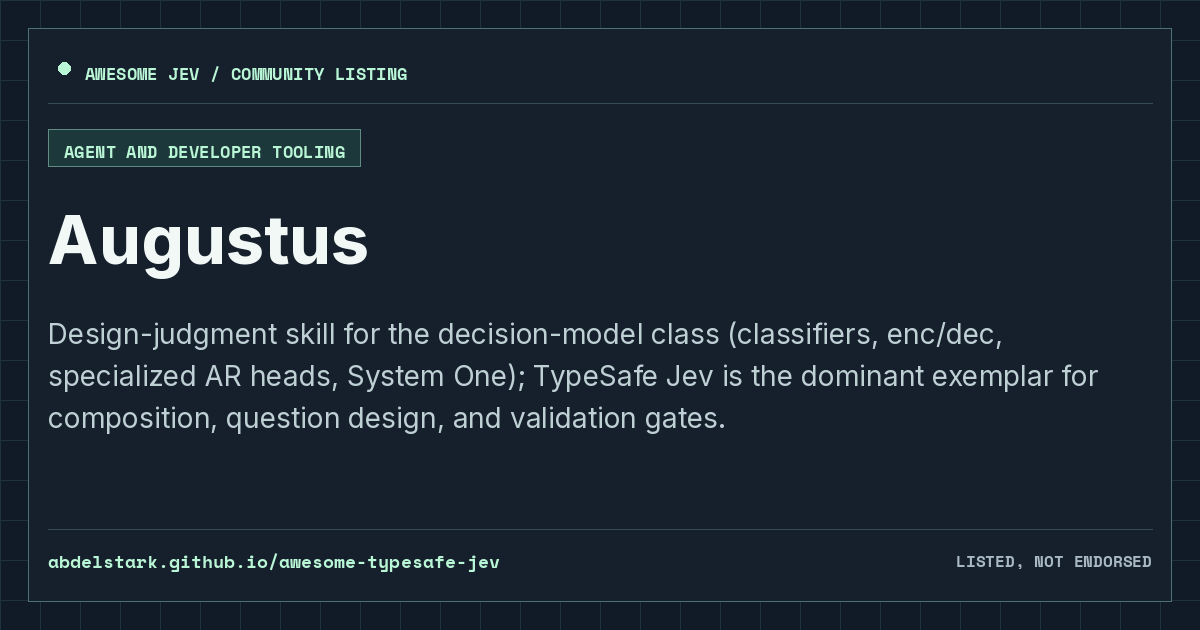
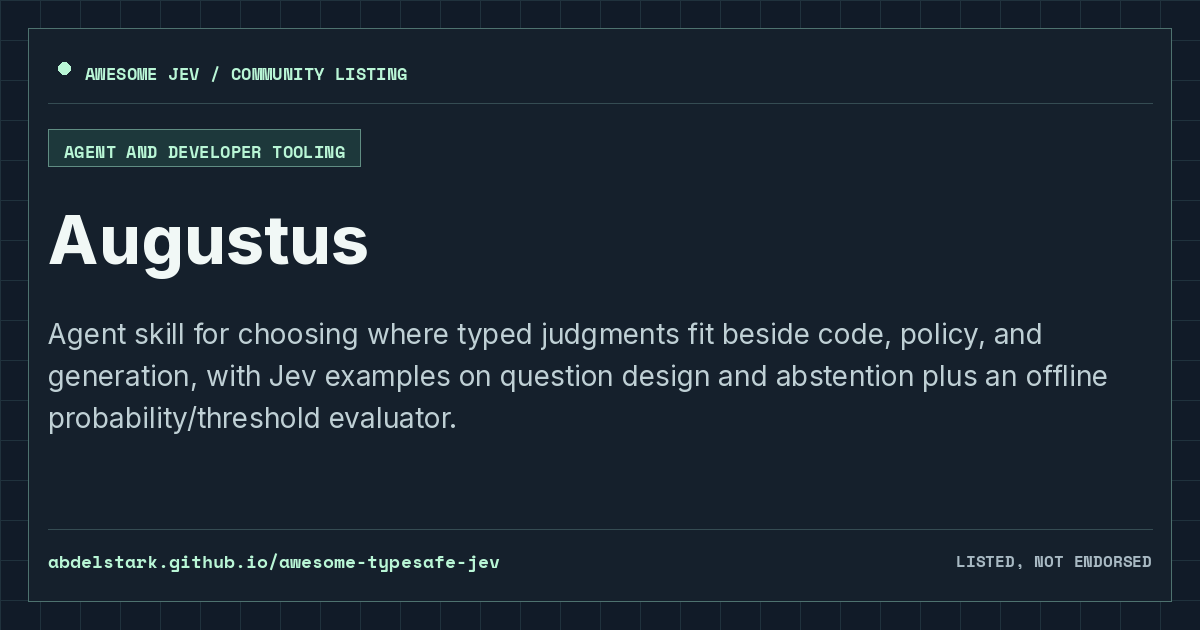
Credit Augustus contributor and clarify listing

Changed region(s): [[0.0308, 0.5127, 0.925, 0.6937]]

diff --git a/projects/gh-24601-augustus.html b/projects/gh-24601-augustus.html
@@ -1,12 +1,12 @@
 ---
 layout: "resource"
 title: "Augustus | Awesome Jev"
-description: "Design-judgment skill for the decision-model class (classifiers, enc/dec, specialized AR heads, System One); TypeSafe Jev is the dominant exemplar for composition, question design, and validation gates."
+description: "Agent skill for choosing where typed judgments fit beside code, policy, and generation, with Jev examples on question design and abstention plus an offline probability/threshold evaluator."
 permalink: "/projects/gh-24601-augustus/"
 resource_name: "Augustus"
 resource_slug: "gh-24601-augustus"
 resource_url: "https://github.com/24601/Augustus"
-description_markdown: "Design-judgment skill for the decision-model class (classifiers, enc/dec, specialized AR heads, System One); TypeSafe Jev is the dominant exemplar for composition, question design, and validation gates."
+description_markdown: "Agent skill for choosing where typed judgments fit beside code, policy, and generation, with Jev examples on question design and abstention plus an offline probability/threshold evaluator."
 category_name: "Agent and developer tooling"
 category_id: "agent-and-developer-tooling"
 social_image: "/assets/cards/gh-24601-augustus.png"

diff --git a/README.md b/README.md
@@ -7,7 +7,7 @@
 [![Checks](https://github.com/AbdelStark/awesome-typesafe-jev/actions/workflows/checks.yml/badge.svg)](https://github.com/AbdelStark/awesome-typesafe-jev/actions/workflows/checks.yml)
 [![License: MIT](https://img.shields.io/badge/license-MIT-blue.svg)](LICENSE)
 <!-- ALL-CONTRIBUTORS-BADGE:START - Do not remove or modify this section -->
-[![All Contributors](https://img.shields.io/badge/all_contributors-64-9de3bc.svg?style=flat-square)](#contributors)
+[![All Contributors](https://img.shields.io/badge/all_contributors-65-9de3bc.svg?style=flat-square)](#contributors)
 <!-- ALL-CONTRIBUTORS-BADGE:END -->
 
 **The field guide to typed decisions.**
@@ -234,7 +234,7 @@ Community projects are independent unless their repository says otherwise. Read 
 
 ### Agent and developer tooling
 
-- [Augustus](https://github.com/24601/Augustus) — Design-judgment skill for the decision-model class (classifiers, enc/dec, specialized AR heads, System One); TypeSafe Jev is the dominant exemplar for composition, question design, and validation gates.
+- [Augustus](https://github.com/24601/Augustus) — Agent skill for choosing where typed judgments fit beside code, policy, and generation, with Jev examples on question design and abstention plus an offline probability/threshold evaluator.
 - [Bicameral](https://github.com/AbdelStark/bicameral) — Pi coding harness where an LLM writes while Jev supplies typed reflexes for policy, loop detection, and review; explicitly not a sandbox.
 - [DGP](https://github.com/numerous-com/dgp) — Experimental decision-based agent protocol with a Jev adapter, immutable evidence frames, typed assessments, and application-guarded commits; the local reference app simulates domain effects, and opt-in live mode sends decision evidence to TypeSafe.
 - [Every](https://github.com/sufianetaouil/every) — Semantic code search CLI that asks a yes/no question of every function and ranks the resulting probabilities.
@@ -365,85 +365,86 @@ Thanks to everyone who has improved the list. The portraits below are generated 
     <tr>
       <td align="center" valign="top" width="14.28%"><a href="https://github.com/AbdelStark"><img src="https://avatars.githubusercontent.com/u/45264458?s=56" width="56px;" alt=""/><br /><sub><b>AbdelStark</b></sub></a><br /><a href="https://github.com/AbdelStark/awesome-typesafe-jev/commits?author=AbdelStark" title="Code">💻</a> <a href="https://github.com/AbdelStark/awesome-typesafe-jev/commits?author=AbdelStark" title="Documentation">📖</a></td>
       <td align="center" valign="top" width="14.28%"><a href="https://github.com/AboveColin"><img src="https://avatars.githubusercontent.com/u/6614011?s=56" width="56px;" alt=""/><br /><sub><b>AboveColin</b></sub></a><br /><a href="https://github.com/AbdelStark/awesome-typesafe-jev/commits?author=AboveColin" title="Documentation">📖</a></td>
+      <td align="center" valign="top" width="14.28%"><a href="https://modyl.to/"><img src="https://avatars.githubusercontent.com/u/1157207?s=56" width="56px;" alt=""/><br /><sub><b>Basit Mustafa</b></sub></a><br /><a href="https://github.com/AbdelStark/awesome-typesafe-jev/commits?author=24601" title="Documentation">📖</a></td>
       <td align="center" valign="top" width="14.28%"><a href="https://github.com/Dearest"><img src="https://avatars.githubusercontent.com/u/7935414?s=56" width="56px;" alt=""/><br /><sub><b>Dearest</b></sub></a><br /><a href="https://github.com/AbdelStark/awesome-typesafe-jev/commits?author=Dearest" title="Documentation">📖</a></td>
       <td align="center" valign="top" width="14.28%"><a href="https://github.com/DevMortimer"><img src="https://avatars.githubusercontent.com/u/161127243?s=56" width="56px;" alt=""/><br /><sub><b>DevMortimer</b></sub></a><br /><a href="https://github.com/AbdelStark/awesome-typesafe-jev/commits?author=DevMortimer" title="Documentation">📖</a></td>
       <td align="center" valign="top" width="14.28%"><a href="https://github.com/FirasSX914"><img src="https://avatars.githubusercontent.com/u/66559814?s=56" width="56px;" alt=""/><br /><sub><b>FirasSX914</b></sub></a><br /><a href="https://github.com/AbdelStark/awesome-typesafe-jev/commits?author=FirasSX914" title="Documentation">📖</a></td>
       <td align="center" valign="top" width="14.28%"><a href="https://github.com/Fox-Islam"><img src="https://avatars.githubusercontent.com/u/28842757?s=56" width="56px;" alt=""/><br /><sub><b>Fox-Islam</b></sub></a><br /><a href="https://github.com/AbdelStark/awesome-typesafe-jev/commits?author=Fox-Islam" title="Documentation">📖</a></td>
-      <td align="center" valign="top" width="14.28%"><a href="https://github.com/Friedjof"><img src="https://avatars.githubusercontent.com/u/60787233?s=56" width="56px;" alt=""/><br /><sub><b>Friedjof</b></sub></a><br /><a href="https://github.com/AbdelStark/awesome-typesafe-jev/commits?author=Friedjof" title="Documentation">📖</a></td>
     </tr>
     <tr>
+      <td align="center" valign="top" width="14.28%"><a href="https://github.com/Friedjof"><img src="https://avatars.githubusercontent.com/u/60787233?s=56" width="56px;" alt=""/><br /><sub><b>Friedjof</b></sub></a><br /><a href="https://github.com/AbdelStark/awesome-typesafe-jev/commits?author=Friedjof" title="Documentation">📖</a></td>
       <td align="center" valign="top" width="14.28%"><a href="https://github.com/GenieRobot"><img src="https://avatars.githubusercontent.com/u/19553316?s=56" width="56px;" alt=""/><br /><sub><b>GenieRobot</b></sub></a><br /><a href="https://github.com/AbdelStark/awesome-typesafe-jev/commits?author=GenieRobot" title="Documentation">📖</a></td>
       <td align="center" valign="top" width="14.28%"><a href="https://github.com/Hawxy"><img src="https://avatars.githubusercontent.com/u/975824?s=56" width="56px;" alt=""/><br /><sub><b>Hawxy</b></sub></a><br /><a href="https://github.com/AbdelStark/awesome-typesafe-jev/commits?author=Hawxy" title="Documentation">📖</a></td>
       <td align="center" valign="top" width="14.28%"><a href="https://github.com/IRONICBo"><img src="https://avatars.githubusercontent.com/u/47499836?s=56" width="56px;" alt=""/><br /><sub><b>IRONICBo</b></sub></a><br /><a href="https://github.com/AbdelStark/awesome-typesafe-jev/commits?author=IRONICBo" title="Documentation">📖</a></td>
       <td align="center" valign="top" width="14.28%"><a href="https://github.com/Lasse-numerous"><img src="https://avatars.githubusercontent.com/u/129042860?s=56" width="56px;" alt=""/><br /><sub><b>Lasse-numerous</b></sub></a><br /><a href="https://github.com/AbdelStark/awesome-typesafe-jev/commits?author=Lasse-numerous" title="Documentation">📖</a></td>
       <td align="center" valign="top" width="14.28%"><a href="https://github.com/ghubnab99"><img src="https://avatars.githubusercontent.com/u/95178618?s=56" width="56px;" alt=""/><br /><sub><b>Mohammed Nabil</b></sub></a><br /><a href="https://github.com/AbdelStark/awesome-typesafe-jev/commits?author=ghubnab99" title="Documentation">📖</a></td>
       <td align="center" valign="top" width="14.28%"><a href="https://github.com/Nasrallah-AL"><img src="https://avatars.githubusercontent.com/u/114925308?s=56" width="56px;" alt=""/><br /><sub><b>Nasrallah-AL</b></sub></a><br /><a href="https://github.com/AbdelStark/awesome-typesafe-jev/commits?author=Nasrallah-AL" title="Documentation">📖</a></td>
-      <td align="center" valign="top" width="14.28%"><a href="https://github.com/Nedomas"><img src="https://avatars.githubusercontent.com/u/1877286?s=56" width="56px;" alt=""/><br /><sub><b>Nedomas</b></sub></a><br /><a href="https://github.com/AbdelStark/awesome-typesafe-jev/commits?author=Nedomas" title="Documentation">📖</a></td>
     </tr>
     <tr>
+      <td align="center" valign="top" width="14.28%"><a href="https://github.com/Nedomas"><img src="https://avatars.githubusercontent.com/u/1877286?s=56" width="56px;" alt=""/><br /><sub><b>Nedomas</b></sub></a><br /><a href="https://github.com/AbdelStark/awesome-typesafe-jev/commits?author=Nedomas" title="Documentation">📖</a></td>
       <td align="center" valign="top" width="14.28%"><a href="https://github.com/Nyarlathoteppppp"><img src="https://avatars.githubusercontent.com/u/126082256?s=56" width="56px;" alt=""/><br /><sub><b>Nyarlathoteppppp</b></sub></a><br /><a href="https://github.com/AbdelStark/awesome-typesafe-jev/commits?author=Nyarlathoteppppp" title="Documentation">📖</a></td>
       <td align="center" valign="top" width="14.28%"><a href="https://github.com/murdore"><img src="https://avatars.githubusercontent.com/u/5094230?s=56" width="56px;" alt=""/><br /><sub><b>Sachin Sharma</b></sub></a><br /><a href="https://github.com/AbdelStark/awesome-typesafe-jev/commits?author=murdore" title="Documentation">📖</a></td>
       <td align="center" valign="top" width="14.28%"><a href="https://github.com/SergeAx"><img src="https://avatars.githubusercontent.com/u/3264530?s=56" width="56px;" alt=""/><br /><sub><b>SergeAx</b></sub></a><br /><a href="https://github.com/AbdelStark/awesome-typesafe-jev/commits?author=SergeAx" title="Documentation">📖</a></td>
       <td align="center" valign="top" width="14.28%"><a href="https://github.com/sliday"><img src="https://avatars.githubusercontent.com/u/167292?s=56" width="56px;" alt=""/><br /><sub><b>Stas Kulesh</b></sub></a><br /><a href="https://github.com/AbdelStark/awesome-typesafe-jev/commits?author=sliday" title="Documentation">📖</a></td>
       <td align="center" valign="top" width="14.28%"><a href="https://github.com/WiktorB2004"><img src="https://avatars.githubusercontent.com/u/62223421?s=56" width="56px;" alt=""/><br /><sub><b>WiktorB2004</b></sub></a><br /><a href="https://github.com/AbdelStark/awesome-typesafe-jev/commits?author=WiktorB2004" title="Documentation">📖</a></td>
       <td align="center" valign="top" width="14.28%"><a href="https://github.com/xinyao27"><img src="https://avatars.githubusercontent.com/u/27852165?s=56" width="56px;" alt=""/><br /><sub><b>Xinyao</b></sub></a><br /><a href="https://github.com/AbdelStark/awesome-typesafe-jev/commits?author=xinyao27" title="Documentation">📖</a></td>
-      <td align="center" valign="top" width="14.28%"><a href="https://github.com/abhixhek"><img src="https://avatars.githubusercontent.com/u/35265146?s=56" width="56px;" alt=""/><br /><sub><b>abhixhek</b></sub></a><br /><a href="https://github.com/AbdelStark/awesome-typesafe-jev/commits?author=abhixhek" title="Documentation">📖</a></td>
     </tr>
     <tr>
+      <td align="center" valign="top" width="14.28%"><a href="https://github.com/abhixhek"><img src="https://avatars.githubusercontent.com/u/35265146?s=56" width="56px;" alt=""/><br /><sub><b>abhixhek</b></sub></a><br /><a href="https://github.com/AbdelStark/awesome-typesafe-jev/commits?author=abhixhek" title="Documentation">📖</a></td>
       <td align="center" valign="top" width="14.28%"><a href="https://github.com/antiyro"><img src="https://avatars.githubusercontent.com/u/74653697?s=56" width="56px;" alt=""/><br /><sub><b>antiyro</b></sub></a><br /><a href="https://github.com/AbdelStark/awesome-typesafe-jev/commits?author=antiyro" title="Documentation">📖</a></td>
       <td align="center" valign="top" width="14.28%"><a href="https://github.com/anxkhn"><img src="https://avatars.githubusercontent.com/u/83116240?s=56" width="56px;" alt=""/><br /><sub><b>anxkhn</b></sub></a><br /><a href="https://github.com/AbdelStark/awesome-typesafe-jev/commits?author=anxkhn" title="Documentation">📖</a></td>
       <td align="center" valign="top" width="14.28%"><a href="https://github.com/aowang-ai"><img src="https://avatars.githubusercontent.com/u/127380378?s=56" width="56px;" alt=""/><br /><sub><b>aowang-ai</b></sub></a><br /><a href="https://github.com/AbdelStark/awesome-typesafe-jev/commits?author=aowang-ai" title="Documentation">📖</a></td>
       <td align="center" valign="top" width="14.28%"><a href="https://github.com/brokermr810"><img src="https://avatars.githubusercontent.com/u/220133043?s=56" width="56px;" alt=""/><br /><sub><b>brokermr810</b></sub></a><br /><a href="https://github.com/AbdelStark/awesome-typesafe-jev/commits?author=brokermr810" title="Documentation">📖</a></td>
       <td align="center" valign="top" width="14.28%"><a href="https://github.com/carldaws"><img src="https://avatars.githubusercontent.com/u/83088654?s=56" width="56px;" alt=""/><br /><sub><b>carldaws</b></sub></a><br /><a href="https://github.com/AbdelStark/awesome-typesafe-jev/commits?author=carldaws" title="Documentation">📖</a></td>
       <td align="center" valign="top" width="14.28%"><a href="https://github.com/chy4pro"><img src="https://avatars.githubusercontent.com/u/61305850?s=56" width="56px;" alt=""/><br /><sub><b>chy4pro</b></sub></a><br /><a href="https://github.com/AbdelStark/awesome-typesafe-jev/commits?author=chy4pro" title="Documentation">📖</a></td>
-      <td align="center" valign="top" width="14.28%"><a href="https://github.com/copyboy"><img src="https://avatars.githubusercontent.com/u/6965335?s=56" width="56px;" alt=""/><br /><sub><b>copyboy</b></sub></a><br /><a href="https://github.com/AbdelStark/awesome-typesafe-jev/commits?author=copyboy" title="Documentation">📖</a></td>
     </tr>
     <tr>
+      <td align="center" valign="top" width="14.28%"><a href="https://github.com/copyboy"><img src="https://avatars.githubusercontent.com/u/6965335?s=56" width="56px;" alt=""/><br /><sub><b>copyboy</b></sub></a><br /><a href="https://github.com/AbdelStark/awesome-typesafe-jev/commits?author=copyboy" title="Documentation">📖</a></td>
       <td align="center" valign="top" width="14.28%"><a href="https://github.com/apps/dependabot"><img src="https://avatars.githubusercontent.com/in/29110?s=56" width="56px;" alt=""/><br /><sub><b>dependabot</b></sub></a><br /><a href="https://github.com/AbdelStark/awesome-typesafe-jev/commits?author=dependabot[bot]" title="Code">💻</a></td>
       <td align="center" valign="top" width="14.28%"><a href="https://github.com/devx-opensource"><img src="https://avatars.githubusercontent.com/u/52704828?s=56" width="56px;" alt=""/><br /><sub><b>devx-opensource</b></sub></a><br /><a href="https://github.com/AbdelStark/awesome-typesafe-jev/commits?author=devx-opensource" title="Documentation">📖</a></td>
       <td align="center" valign="top" width="14.28%"><a href="https://github.com/emreozyoruk"><img src="https://avatars.githubusercontent.com/u/72655616?s=56" width="56px;" alt=""/><br /><sub><b>emreozyoruk</b></sub></a><br /><a href="https://github.com/AbdelStark/awesome-typesafe-jev/commits?author=emreozyoruk" title="Documentation">📖</a></td>
       <td align="center" valign="top" width="14.28%"><a href="https://github.com/eugeniughelbur"><img src="https://avatars.githubusercontent.com/u/229805713?s=56" width="56px;" alt=""/><br /><sub><b>eugeniughelbur</b></sub></a><br /><a href="https://github.com/AbdelStark/awesome-typesafe-jev/commits?author=eugeniughelbur" title="Documentation">📖</a></td>
       <td align="center" valign="top" width="14.28%"><a href="https://github.com/fatwang2"><img src="https://avatars.githubusercontent.com/u/134143178?s=56" width="56px;" alt=""/><br /><sub><b>fatwang2</b></sub></a><br /><a href="https://github.com/AbdelStark/awesome-typesafe-jev/commits?author=fatwang2" title="Documentation">📖</a></td>
       <td align="center" valign="top" width="14.28%"><a href="https://github.com/formulahendry"><img src="https://avatars.githubusercontent.com/u/1050213?s=56" width="56px;" alt=""/><br /><sub><b>formulahendry</b></sub></a><br /><a href="https://github.com/AbdelStark/awesome-typesafe-jev/commits?author=formulahendry" title="Documentation">📖</a></td>
-      <td align="center" valign="top" width="14.28%"><a href="https://github.com/forvela"><img src="https://avatars.githubusercontent.com/u/6023261?s=56" width="56px;" alt=""/><br /><sub><b>forvela</b></sub></a><br /><a href="https://github.com/AbdelStark/awesome-typesafe-jev/commits?author=forvela" title="Documentation">📖</a></td>
     </tr>
     <tr>
+      <td align="center" valign="top" width="14.28%"><a href="https://github.com/forvela"><img src="https://avatars.githubusercontent.com/u/6023261?s=56" width="56px;" alt=""/><br /><sub><b>forvela</b></sub></a><br /><a href="https://github.com/AbdelStark/awesome-typesafe-jev/commits?author=forvela" title="Documentation">📖</a></td>
       <td align="center" valign="top" width="14.28%"><a href="https://github.com/gaborishka"><img src="https://avatars.githubusercontent.com/u/25786922?s=56" width="56px;" alt=""/><br /><sub><b>gaborishka</b></sub></a><br /><a href="https://github.com/AbdelStark/awesome-typesafe-jev/commits?author=gaborishka" title="Documentation">📖</a></td>
       <td align="center" valign="top" width="14.28%"><a href="https://github.com/garretpremo"><img src="https://avatars.githubusercontent.com/u/22661350?s=56" width="56px;" alt=""/><br /><sub><b>garretpremo</b></sub></a><br /><a href="https://github.com/AbdelStark/awesome-typesafe-jev/commits?author=garretpremo" title="Documentation">📖</a></td>
       <td align="center" valign="top" width="14.28%"><a href="https://github.com/ikkun1222"><img src="https://avatars.githubusercontent.com/u/15605461?s=56" width="56px;" alt=""/><br /><sub><b>ikkun1222</b></sub></a><br /><a href="https://github.com/AbdelStark/awesome-typesafe-jev/commits?author=ikkun1222" title="Documentation">📖</a></td>
       <td align="center" valign="top" width="14.28%"><a href="https://github.com/jesset"><img src="https://avatars.githubusercontent.com/u/56474?s=56" width="56px;" alt=""/><br /><sub><b>jesset</b></sub></a><br /><a href="https://github.com/AbdelStark/awesome-typesafe-jev/commits?author=jesset" title="Documentation">📖</a></td>
       <td align="center" valign="top" width="14.28%"><a href="https://github.com/jonesmelton"><img src="https://avatars.githubusercontent.com/u/15352346?s=56" width="56px;" alt=""/><br /><sub><b>jonesmelton</b></sub></a><br /><a href="https://github.com/AbdelStark/awesome-typesafe-jev/commits?author=jonesmelton" title="Documentation">📖</a></td>
       <td align="center" valign="top" width="14.28%"><a href="https://github.com/jyatesdotdev"><img src="https://avatars.githubusercontent.com/u/15803573?s=56" width="56px;" alt=""/><br /><sub><b>jyatesdotdev</b></sub></a><br /><a href="https://github.com/AbdelStark/awesome-typesafe-jev/commits?author=jyatesdotdev" title="Documentation">📖</a></td>
-      <td align="center" valign="top" width="14.28%"><a href="https://github.com/kylemclaren"><img src="https://avatars.githubusercontent.com/u/3727384?s=56" width="56px;" alt=""/><br /><sub><b>kylemclaren</b></sub></a><br /><a href="https://github.com/AbdelStark/awesome-typesafe-jev/commits?author=kylemclaren" title="Documentation">📖</a></td>
     </tr>
     <tr>
+      <td align="center" valign="top" width="14.28%"><a href="https://github.com/kylemclaren"><img src="https://avatars.githubusercontent.com/u/3727384?s=56" width="56px;" alt=""/><br /><sub><b>kylemclaren</b></sub></a><br /><a href="https://github.com/AbdelStark/awesome-typesafe-jev/commits?author=kylemclaren" title="Documentation">📖</a></td>
       <td align="center" valign="top" width="14.28%"><a href="https://github.com/kyu1204"><img src="https://avatars.githubusercontent.com/u/33680799?s=56" width="56px;" alt=""/><br /><sub><b>kyu1204</b></sub></a><br /><a href="https://github.com/AbdelStark/awesome-typesafe-jev/commits?author=kyu1204" title="Documentation">📖</a></td>
       <td align="center" valign="top" width="14.28%"><a href="https://github.com/ljedrz"><img src="https://avatars.githubusercontent.com/u/3750347?s=56" width="56px;" alt=""/><br /><sub><b>ljedrz</b></sub></a><br /><a href="https://github.com/AbdelStark/awesome-typesafe-jev/commits?author=ljedrz" title="Documentation">📖</a></td>
       <td align="center" valign="top" width="14.28%"><a href="https://github.com/luantak"><img src="https://avatars.githubusercontent.com/u/46541492?s=56" width="56px;" alt=""/><br /><sub><b>luantak</b></sub></a><br /><a href="https://github.com/AbdelStark/awesome-typesafe-jev/commits?author=luantak" title="Documentation">📖</a></td>
       <td align="center" valign="top" width="14.28%"><a href="https://github.com/lukstei"><img src="https://avatars.githubusercontent.com/u/292363?s=56" width="56px;" alt=""/><br /><sub><b>lukstei</b></sub></a><br /><a href="https://github.com/AbdelStark/awesome-typesafe-jev/commits?author=lukstei" title="Documentation">📖</a></td>
       <td align="center" valign="top" width="14.28%"><a href="https://github.com/marandaneto"><img src="https://avatars.githubusercontent.com/u/5731772?s=56" width="56px;" alt=""/><br /><sub><b>marandaneto</b></sub></a><br /><a href="https://github.com/AbdelStark/awesome-typesafe-jev/commits?author=marandaneto" title="Documentation">📖</a></td>
       <td align="center" valign="top" width="14.28%"><a href="https://github.com/nshkrdotcom"><img src="https://avatars.githubusercontent.com/u/127063941?s=56" width="56px;" alt=""/><br /><sub><b>nshkrdotcom</b></sub></a><br /><a href="https://github.com/AbdelStark/awesome-typesafe-jev/commits?author=nshkrdotcom" title="Documentation">📖</a></td>
-      <td align="center" valign="top" width="14.28%"><a href="https://github.com/roadtogideon222-byte"><img src="https://avatars.githubusercontent.com/u/261539583?s=56" width="56px;" alt=""/><br /><sub><b>roadtogideon222-byte</b></sub></a><br /><a href="https://github.com/AbdelStark/awesome-typesafe-jev/commits?author=roadtogideon222-byte" title="Documentation">📖</a></td>
     </tr>
     <tr>
+      <td align="center" valign="top" width="14.28%"><a href="https://github.com/roadtogideon222-byte"><img src="https://avatars.githubusercontent.com/u/261539583?s=56" width="56px;" alt=""/><br /><sub><b>roadtogideon222-byte</b></sub></a><br /><a href="https://github.com/AbdelStark/awesome-typesafe-jev/commits?author=roadtogideon222-byte" title="Documentation">📖</a></td>
       <td align="center" valign="top" width="14.28%"><a href="https://github.com/rubenroques"><img src="https://avatars.githubusercontent.com/u/1226082?s=56" width="56px;" alt=""/><br /><sub><b>rubenroques</b></sub></a><br /><a href="https://github.com/AbdelStark/awesome-typesafe-jev/commits?author=rubenroques" title="Documentation">📖</a></td>
       <td align="center" valign="top" width="14.28%"><a href="https://github.com/rupeshpoojary9"><img src="https://avatars.githubusercontent.com/u/190820887?s=56" width="56px;" alt=""/><br /><sub><b>rupeshpoojary9</b></sub></a><br /><a href="https://github.com/AbdelStark/awesome-typesafe-jev/commits?author=rupeshpoojary9" title="Documentation">📖</a></td>
       <td align="center" valign="top" width="14.28%"><a href="https://github.com/rustyconover"><img src="https://avatars.githubusercontent.com/u/731941?s=56" width="56px;" alt=""/><br /><sub><b>rustyconover</b></sub></a><br /><a href="https://github.com/AbdelStark/awesome-typesafe-jev/commits?author=rustyconover" title="Documentation">📖</a></td>
       <td align="center" valign="top" width="14.28%"><a href="https://github.com/scienthoon"><img src="https://avatars.githubusercontent.com/u/46613837?s=56" width="56px;" alt=""/><br /><sub><b>scienthoon</b></sub></a><br /><a href="https://github.com/AbdelStark/awesome-typesafe-jev/commits?author=scienthoon" title="Documentation">📖</a></td>
       <td align="center" valign="top" width="14.28%"><a href="https://github.com/sensahin"><img src="https://avatars.githubusercontent.com/u/802267?s=56" width="56px;" alt=""/><br /><sub><b>sensahin</b></sub></a><br /><a href="https://github.com/AbdelStark/awesome-typesafe-jev/commits?author=sensahin" title="Documentation">📖</a></td>
       <td align="center" valign="top" width="14.28%"><a href="https://github.com/sethkimmel3"><img src="https://avatars.githubusercontent.com/u/5075883?s=56" width="56px;" alt=""/><br /><sub><b>sethkimmel3</b></sub></a><br /><a href="https://github.com/AbdelStark/awesome-typesafe-jev/commits?author=sethkimmel3" title="Documentation">📖</a></td>
-      <td align="center" valign="top" width="14.28%"><a href="https://github.com/shiftynick"><img src="https://avatars.githubusercontent.com/u/5439863?s=56" width="56px;" alt=""/><br /><sub><b>shiftynick</b></sub></a><br /><a href="https://github.com/AbdelStark/awesome-typesafe-jev/commits?author=shiftynick" title="Documentation">📖</a></td>
     </tr>
     <tr>
+      <td align="center" valign="top" width="14.28%"><a href="https://github.com/shiftynick"><img src="https://avatars.githubusercontent.com/u/5439863?s=56" width="56px;" alt=""/><br /><sub><b>shiftynick</b></sub></a><br /><a href="https://github.com/AbdelStark/awesome-typesafe-jev/commits?author=shiftynick" title="Documentation">📖</a></td>
       <td align="center" valign="top" width="14.28%"><a href="https://github.com/shimo4228"><img src="https://avatars.githubusercontent.com/u/54734315?s=56" width="56px;" alt=""/><br /><sub><b>shimo4228</b></sub></a><br /><a href="https://github.com/AbdelStark/awesome-typesafe-jev/commits?author=shimo4228" title="Documentation">📖</a></td>
       <td align="center" valign="top" width="14.28%"><a href="https://github.com/shitianfang"><img src="https://avatars.githubusercontent.com/u/61344989?s=56" width="56px;" alt=""/><br /><sub><b>shitianfang</b></sub></a><br /><a href="https://github.com/AbdelStark/awesome-typesafe-jev/commits?author=shitianfang" title="Documentation">📖</a></td>
       <td align="center" valign="top" width="14.28%"><a href="https://github.com/ticofab"><img src="https://avatars.githubusercontent.com/u/1792917?s=56" width="56px;" alt=""/><br /><sub><b>ticofab</b></sub></a><br /><a href="https://github.com/AbdelStark/awesome-typesafe-jev/commits?author=ticofab" title="Documentation">📖</a></td>
       <td align="center" valign="top" width="14.28%"><a href="https://github.com/ufec"><img src="https://avatars.githubusercontent.com/u/34962267?s=56" width="56px;" alt=""/><br /><sub><b>ufec</b></sub></a><br /><a href="https://github.com/AbdelStark/awesome-typesafe-jev/commits?author=ufec" title="Documentation">📖</a></td>
       <td align="center" valign="top" width="14.28%"><a href="https://github.com/unikcc"><img src="https://avatars.githubusercontent.com/u/19505579?s=56" width="56px;" alt=""/><br /><sub><b>unikcc</b></sub></a><br /><a href="https://github.com/AbdelStark/awesome-typesafe-jev/commits?author=unikcc" title="Documentation">📖</a></td>
       <td align="center" valign="top" width="14.28%"><a href="https://github.com/valentynkit"><img src="https://avatars.githubusercontent.com/u/35431524?s=56" width="56px;" alt=""/><br /><sub><b>valentynkit</b></sub></a><br /><a href="https://github.com/AbdelStark/awesome-typesafe-jev/commits?author=valentynkit" title="Documentation">📖</a></td>
-      <td align="center" valign="top" width="14.28%"><a href="https://github.com/yodablocks"><img src="https://avatars.githubusercontent.com/u/83685559?s=56" width="56px;" alt=""/><br /><sub><b>yodablocks</b></sub></a><br /><a href="https://github.com/AbdelStark/awesome-typesafe-jev/commits?author=yodablocks" title="Documentation">📖</a></td>
     </tr>
     <tr>
+      <td align="center" valign="top" width="14.28%"><a href="https://github.com/yodablocks"><img src="https://avatars.githubusercontent.com/u/83685559?s=56" width="56px;" alt=""/><br /><sub><b>yodablocks</b></sub></a><br /><a href="https://github.com/AbdelStark/awesome-typesafe-jev/commits?author=yodablocks" title="Documentation">📖</a></td>
       <td align="center" valign="top" width="14.28%"><a href="https://github.com/yuyang2230"><img src="https://avatars.githubusercontent.com/u/10702165?s=56" width="56px;" alt=""/><br /><sub><b>yuyang2230</b></sub></a><br /><a href="https://github.com/AbdelStark/awesome-typesafe-jev/commits?author=yuyang2230" title="Documentation">📖</a></td>
     </tr>
   </tbody>
